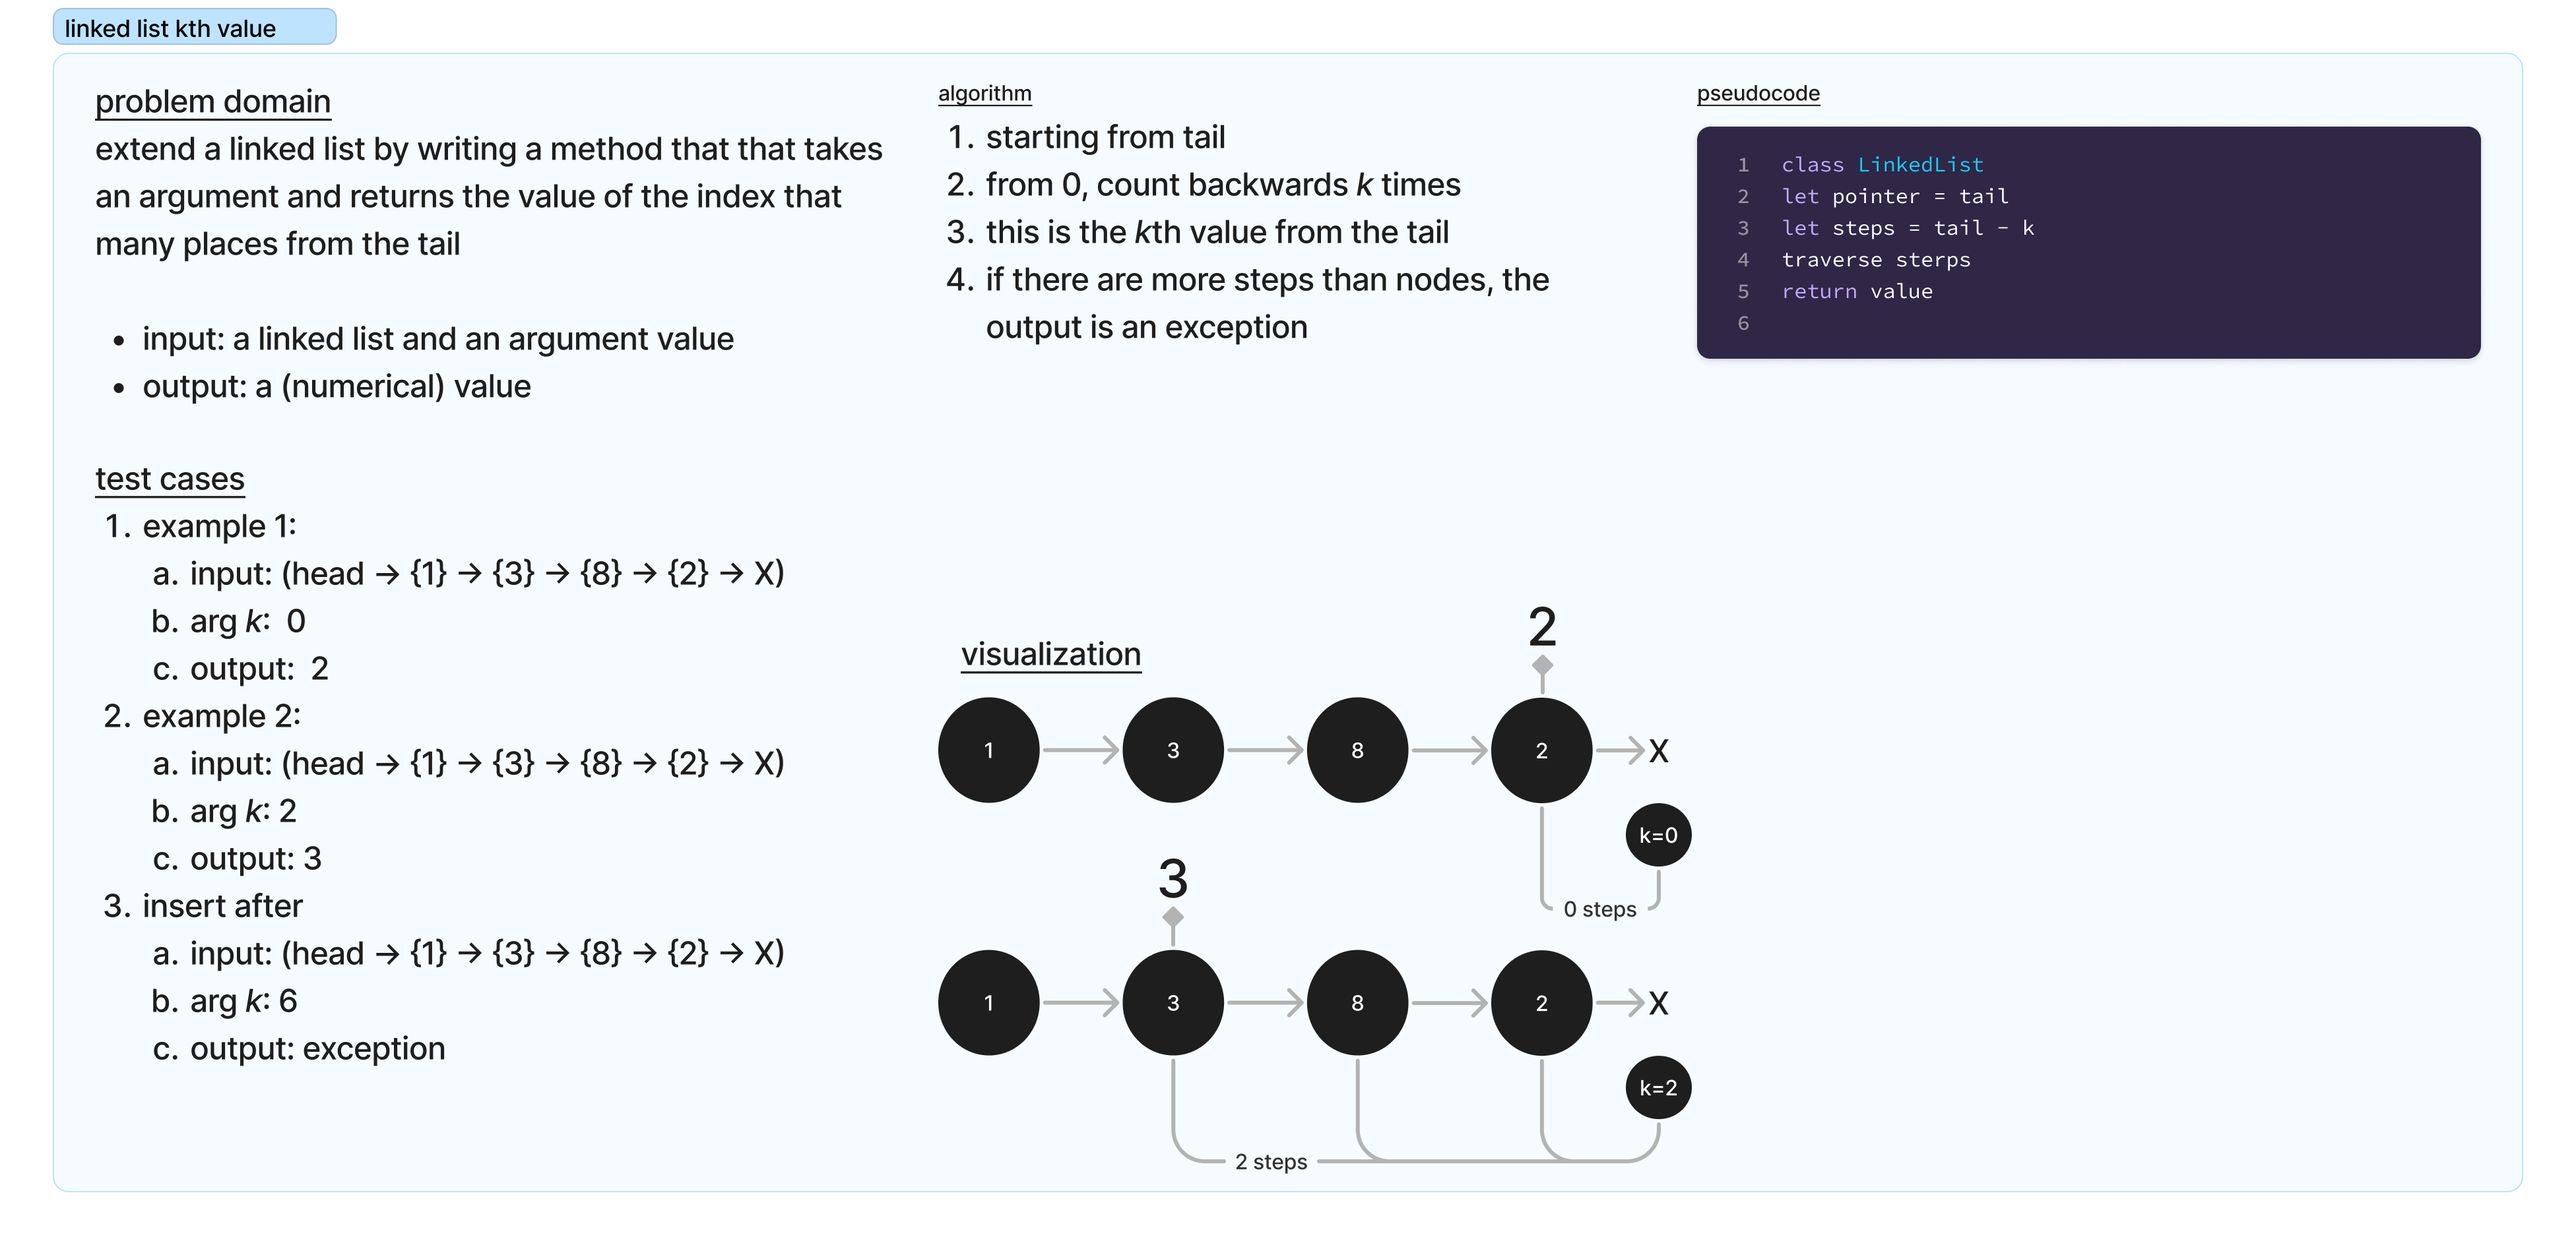
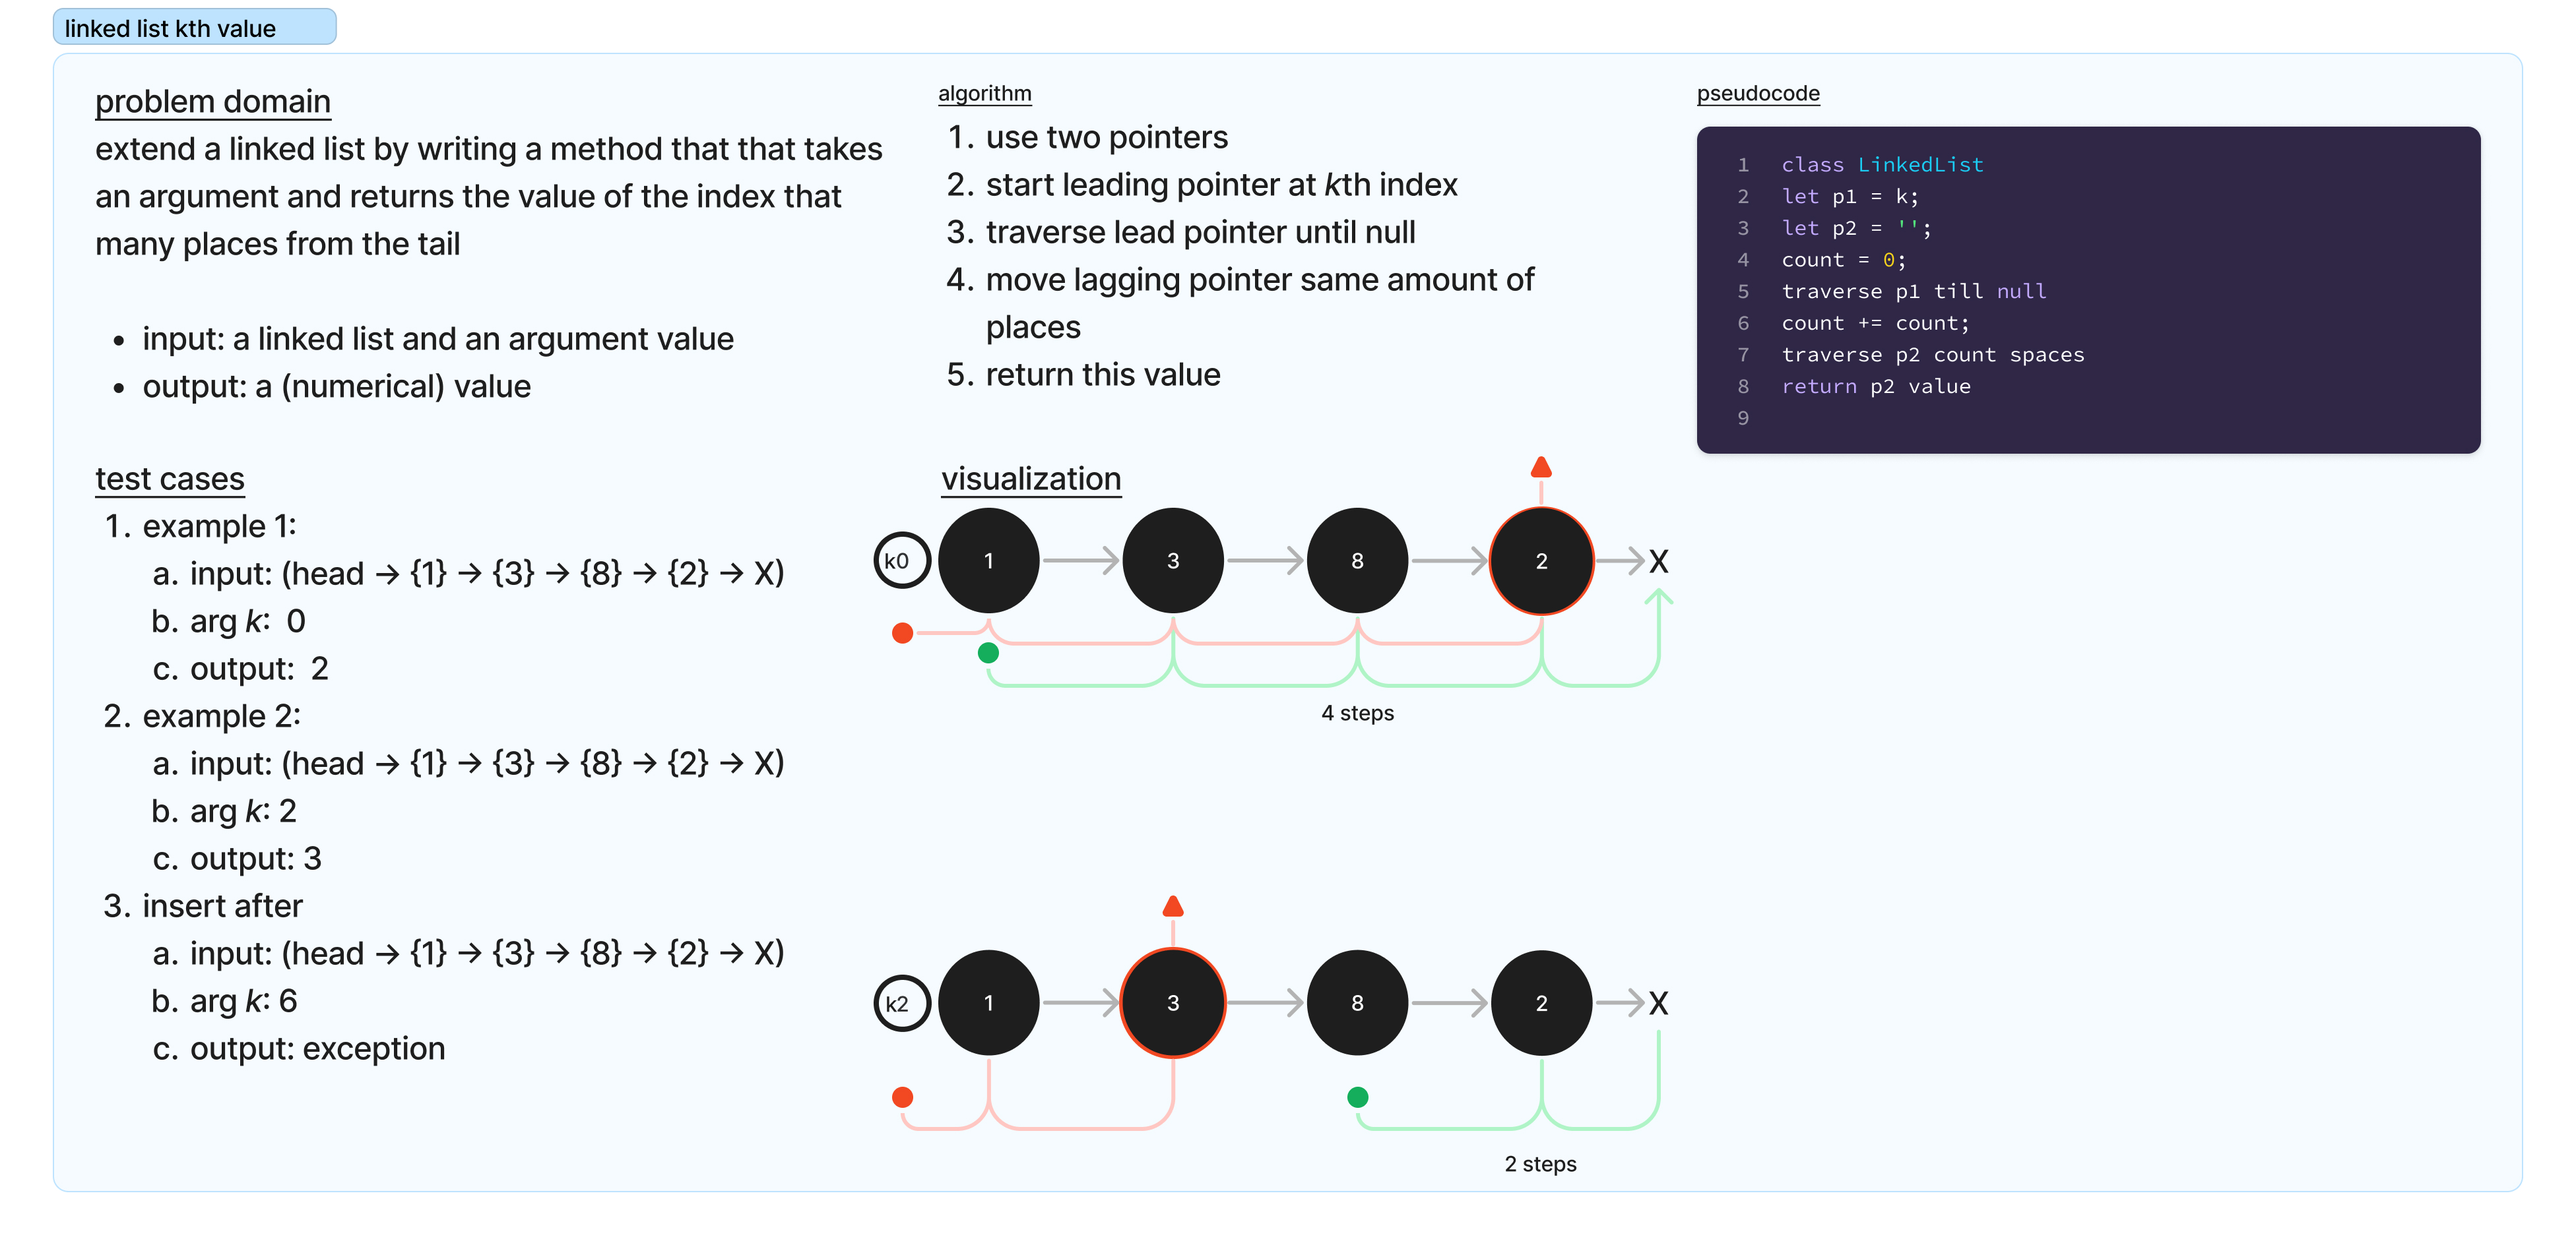
changes

diff --git a/javascript/advanced-code-challenges/challenge-07/README.md b/javascript/advanced-code-challenges/challenge-07/README.md
@@ -7,4 +7,5 @@ k-th value from the end of a linked list.
 ![Alt text](/javascript/img/linked-list-kth-value.jpg)
 
 ## Approach & Efficiency
-<!-- What approach did you take? Discuss Why. What is the Big O space/time for this approach? -->
+
+use two pointers to check the linked list in a single pass
